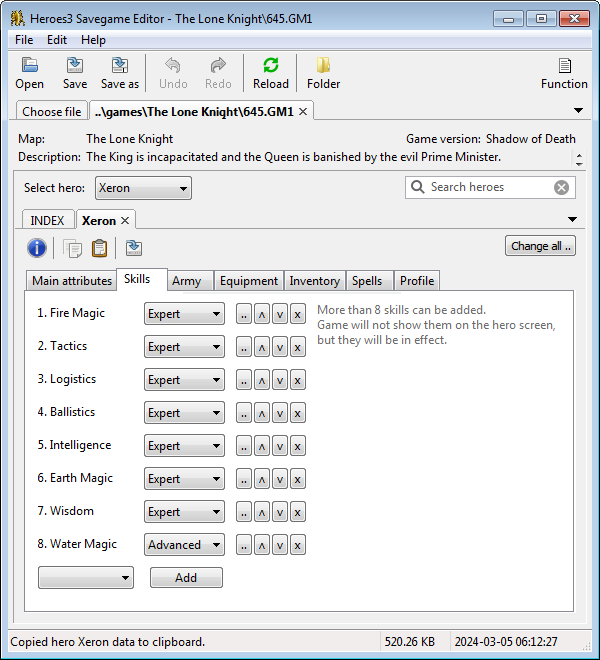
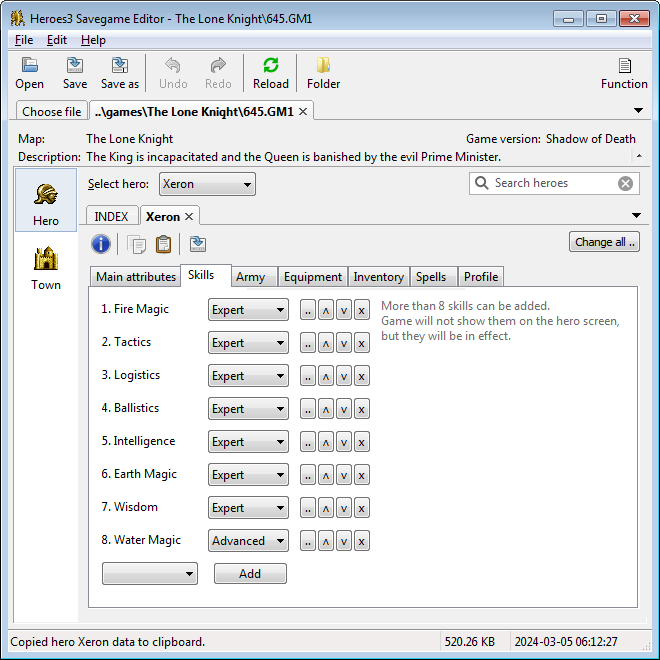
Update texts and links and screenshot to v4.0.

diff --git a/index.html b/index.html
@@ -43,9 +43,9 @@
           <a href="https://github.com/suurjaak/h3sed">View the Project on GitHub <small>suurjaak/h3sed</small></a>
 
           <ul>
-            <li><a href="https://erki.lap.ee/downloads/h3sed/h3sed_3.8_setup.exe" title="Setup for Windows">Download <strong>Setup</strong></a></li>
-            <li><a href="https://erki.lap.ee/downloads/h3sed/h3sed_3.8.exe" title="Stand-alone program for Windows">Download <strong>Executable</strong></a></li>
-            <li><a href="https://erki.lap.ee/downloads/h3sed/h3sed_3.8-src.zip" title="Source distribution">Download <strong>Source</strong></a></li>
+            <li><a href="https://erki.lap.ee/downloads/h3sed/h3sed_4.0_setup.exe" title="Setup for Windows">Download <strong>Setup</strong></a></li>
+            <li><a href="https://erki.lap.ee/downloads/h3sed/h3sed_4.0.exe" title="Stand-alone program for Windows">Download <strong>Executable</strong></a></li>
+            <li><a href="https://erki.lap.ee/downloads/h3sed/h3sed_4.0-src.zip" title="Source distribution">Download <strong>Source</strong></a></li>
           </ul>
         </p>
 
@@ -56,7 +56,7 @@
 
 <p>h3sed is a Heroes3 Savegame Editor, written in Python.</p>
 
-<p>It opens savegame files from Heroes of Might and Magic III, allowing to see an overview of all heroes, and edit any and all hero attributes:</p>
+<p>It opens savegame files from Heroes of Might and Magic III, allowing to see an overview of all heroes and towns, and edit any and all hero attributes:</p>
 
 <ul>
   <li>primary skills, like Attack</li>
@@ -68,7 +68,9 @@
   <li>army creatures, like Golden Dragons</li>
 </ul>
 
-<p>Attributes can be copied from one hero and pasted to another.</p>
+<p>Additionally, it allows changing armies garrisoned in town.</p>
+
+<p>Attributes can be copied from one hero or town and pasted to another.</p>
 
 <p>Hero data can be exported as HTML or spreadsheet.</p>
 
@@ -82,9 +84,9 @@
 <p>Navigate the file view to Heroes3 games-folder, and open a savegame file to edit,
 or drag and drop a savegame file onto the program window.</p>
 
-<p>Choose a hero to modify, change attributes to your liking, and save the file. Changes will be available in Heroes3 after loading the changed savegame.</p>
+<p>Choose a hero or town to modify, change attributes to your liking, and save the file. Changes will be available in Heroes3 after loading the changed savegame.</p>
 
-<p>Attributes from one hero can be copied to clipboard as text, and pasted onto another hero, overwriting their data.<p>
+<p>Attributes from one hero or town can be copied to clipboard as text, and pasted onto another, overwriting their editable data.<p>
 
 <p>A timestamped backup copy is automatically created of the savegame file, one per day.</p>
 

diff --git a/changelog.html b/changelog.html
@@ -34,9 +34,9 @@
           <a href="https://github.com/suurjaak/h3sed">View the Project on GitHub <small>suurjaak/h3sed</small></a>
 
           <ul>
-            <li><a href="https://erki.lap.ee/downloads/h3sed/h3sed_3.8_setup.exe" title="Setup for Windows">Download <strong>Setup</strong></a></li>
-            <li><a href="https://erki.lap.ee/downloads/h3sed/h3sed_3.8.exe" title="Stand-alone program for Windows">Download <strong>Executable</strong></a></li>
-            <li><a href="https://erki.lap.ee/downloads/h3sed/h3sed_3.8-src.zip" title="Source distribution">Download <strong>Source</strong></a></li>
+            <li><a href="https://erki.lap.ee/downloads/h3sed/h3sed_4.0_setup.exe" title="Setup for Windows">Download <strong>Setup</strong></a></li>
+            <li><a href="https://erki.lap.ee/downloads/h3sed/h3sed_4.0.exe" title="Stand-alone program for Windows">Download <strong>Executable</strong></a></li>
+            <li><a href="https://erki.lap.ee/downloads/h3sed/h3sed_4.0-src.zip" title="Source distribution">Download <strong>Source</strong></a></li>
           </ul>
         </p>
 
@@ -44,6 +44,14 @@
       <section>
 
         <h2>Changelog</h2>
+
+        <h4>v4.0, 2026-10-03:</h4>
+        <ul>
+          <li>added towns section</li>
+          <li>add hero map status and current town to hero profile</li>
+          <li>fix parsing hero map coordinates in Restoration of Erathia</li>
+        </ul>
+        <br />
 
         <h4>v3.8, 2026-09-07:</h4>
         <ul>

diff --git a/downloads.html b/downloads.html
@@ -34,9 +34,9 @@
           <a href="https://github.com/suurjaak/h3sed">View the Project on GitHub <small>suurjaak/h3sed</small></a>
 
           <ul>
-            <li><a href="https://erki.lap.ee/downloads/h3sed/h3sed_3.8_setup.exe" title="Setup for Windows">Download <strong>Setup</strong></a></li>
-            <li><a href="https://erki.lap.ee/downloads/h3sed/h3sed_3.8.exe" title="Stand-alone program for Windows">Download <strong>Executable</strong></a></li>
-            <li><a href="https://erki.lap.ee/downloads/h3sed/h3sed_3.8-src.zip" title="Source distribution">Download <strong>Source</strong></a></li>
+            <li><a href="https://erki.lap.ee/downloads/h3sed/h3sed_4.0_setup.exe" title="Setup for Windows">Download <strong>Setup</strong></a></li>
+            <li><a href="https://erki.lap.ee/downloads/h3sed/h3sed_4.0.exe" title="Stand-alone program for Windows">Download <strong>Executable</strong></a></li>
+            <li><a href="https://erki.lap.ee/downloads/h3sed/h3sed_4.0-src.zip" title="Source distribution">Download <strong>Source</strong></a></li>
           </ul>
         </p>
 
